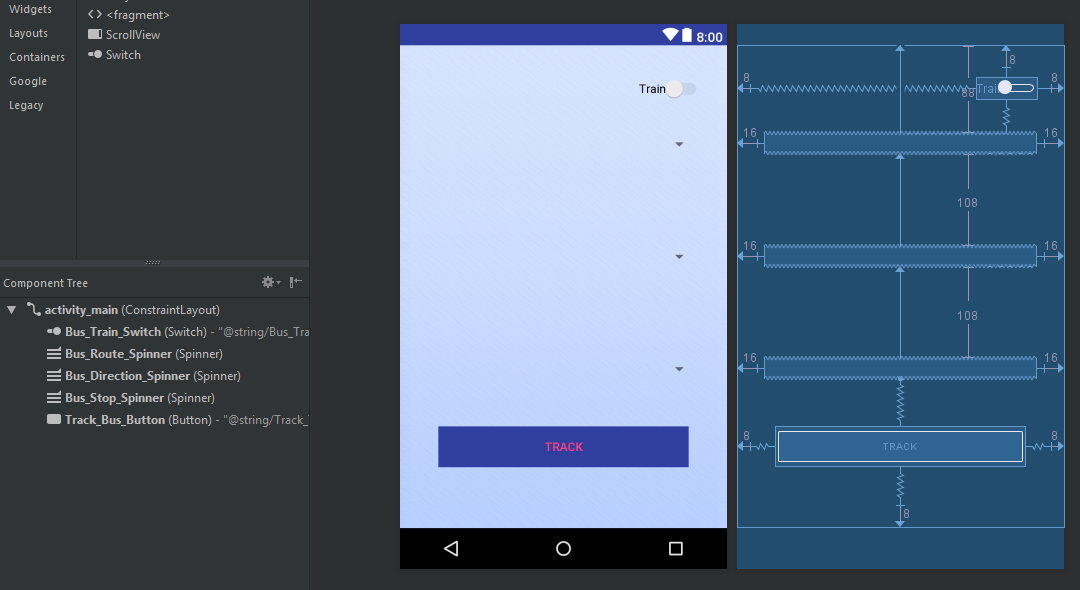
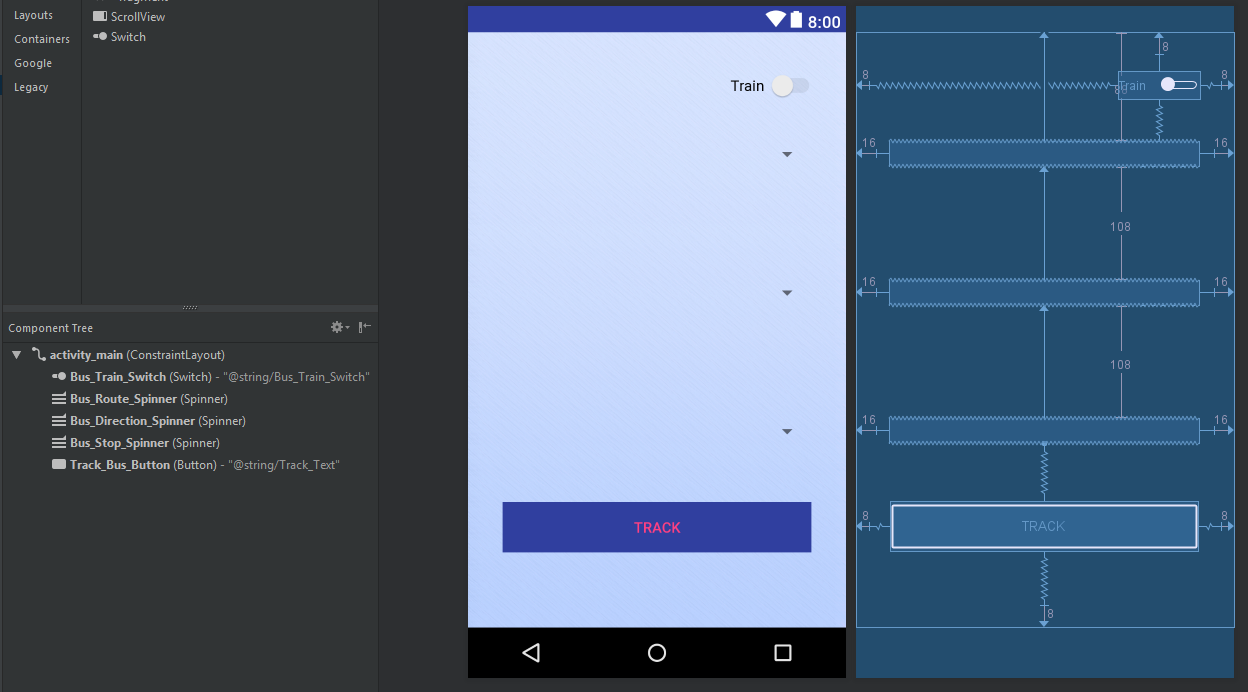
updates
added train tracking ui
fixed bus ui rotation crash
added bus error checking
bus switch goes to train
train switch goes to bus
train and bus button go to results

diff --git a/src/app/src/main/java/com/example/faraz/mytransitapp_android/MainActivity.java b/src/app/src/main/java/com/example/faraz/mytransitapp_android/MainActivity.java
@@ -21,10 +21,7 @@ import java.util.HashMap;
 import java.util.Map;
 
 public class MainActivity extends AppCompatActivity {
-    // the track button
     private Button trackButton;
-
-    // the switch to train switch
     private Switch busToTrainSwitch;
 
     // spinners
@@ -37,6 +34,7 @@ public class MainActivity extends AppCompatActivity {
     private String selectedDirection;
     private String selectedStop;
     private String ID;
+    private String routeNumber;
 
     // cta data objects
     private final CTA cta = new CTA();
@@ -46,6 +44,16 @@ public class MainActivity extends AppCompatActivity {
     protected void onCreate(Bundle savedInstanceState) {
         super.onCreate(savedInstanceState);
         setContentView(R.layout.activity_main);
+
+        // when the app is fired up from the home screen, savedInstanceState will be null
+        // When the app has already been running and the screen was rotated, the bundle exists
+        if (savedInstanceState != null) {
+            selectedRoute = savedInstanceState.getString("route");
+            selectedDirection = savedInstanceState.getString("dir");
+            selectedStop = savedInstanceState.getString("stop");
+            ID = savedInstanceState.getString("stpid");
+            routeNumber = savedInstanceState.getString("rtNum");
+        }
 
         ctaDB = new HashMap<>();
         ctaDB.put("008N", new KeyValue(createList(R.array.Eight_North_Stops), createList(R.array.Eight_North_IDs)));
@@ -73,13 +81,20 @@ public class MainActivity extends AppCompatActivity {
                     selectedStop.equals("Select Stop")) {
                     return;
                 }
-                Log.d("Transit", selectedRoute + ", " + selectedDirection + ", " + selectedStop);
+
+                String key = cta.checkBus(selectedRoute, selectedDirection);
+                if (key == null)
+                    return;
+
+                KeyValue value = ctaDB.get(key);
+                if (value == null)
+                    return;
+
+                ID = value.find(selectedStop);
             }
 
             @Override
-            public void onNothingSelected(AdapterView<?> parent) {
-
-            }
+            public void onNothingSelected(AdapterView<?> parent) {}
         });
 
         // Bus Direction Spinner
@@ -96,8 +111,11 @@ public class MainActivity extends AppCompatActivity {
                 busStopAdapter.addAll(createList(R.array.Empty_Stop));
                 busStopAdapter.notifyDataSetChanged();
 
+                selectedStop = null;
+                ID = null;
+
                 String key = cta.checkBus(selectedRoute, selectedDirection);
-                if (key.equals(""))
+                if (key == null)
                     return;
 
                 KeyValue value = ctaDB.get(key);
@@ -110,9 +128,7 @@ public class MainActivity extends AppCompatActivity {
             }
 
             @Override
-            public void onNothingSelected(AdapterView<?> parent) {
-
-            }
+            public void onNothingSelected(AdapterView<?> parent) {}
         });
 
         // Bus Route Spinner
@@ -129,6 +145,10 @@ public class MainActivity extends AppCompatActivity {
                 busStopAdapter.addAll(createList(R.array.Empty_Stop));
                 busStopAdapter.notifyDataSetChanged();
 
+                selectedDirection = null;
+                selectedStop = null;
+                ID = null;
+
                 if (selectedRoute.equals("Select Route")) {
                     return;
                 }
@@ -142,12 +162,12 @@ public class MainActivity extends AppCompatActivity {
                     busDirectionAdapter.addAll(createList(R.array.EastWest_Direction));
                     busDirectionAdapter.notifyDataSetChanged();
                 }
+
+                routeNumber = cta.getRouteNumber(selectedRoute);
             }
 
             @Override
-            public void onNothingSelected(AdapterView<?> parent) {
-
-            }
+            public void onNothingSelected(AdapterView<?> parent) {}
         });
 
         // find the track button and add a click listener to it
@@ -155,8 +175,17 @@ public class MainActivity extends AppCompatActivity {
         trackButton.setOnClickListener(new View.OnClickListener() {
             @Override
             public void onClick(View v) {
-                Toast.makeText(MainActivity.this, "You clicked the button", Toast.LENGTH_SHORT).show();
+                if (ID == null || selectedRoute.equals("Select Route") ||
+                                    selectedDirection.equals("Select Direction") ||
+                                    selectedStop.equals("Select Stop")) {
+                    Toast.makeText(MainActivity.this, "Oops! You missed something", Toast.LENGTH_SHORT).show();
+                    return;
+                }
+
+                Toast.makeText(MainActivity.this, "Tracking...", Toast.LENGTH_SHORT).show();
                 Intent myIntent = new Intent(MainActivity.this, DisplayResults.class);
+                myIntent.putExtra("stpid", ID);
+                myIntent.putExtra("rt", routeNumber);
                 finish();
                 startActivity(myIntent);
             }
@@ -174,7 +203,19 @@ public class MainActivity extends AppCompatActivity {
                 }
             }
         });
+    }
 
+    // app receives callback to this function when the Android OS detects a screen rotation
+    // function stores the state of our app when the main activity is restarted due to screen rotation
+    @Override
+    public void onSaveInstanceState(Bundle outState) {
+        super.onSaveInstanceState(outState);
+
+        outState.putString("route", selectedRoute);
+        outState.putString("dir", selectedDirection);
+        outState.putString("stop", selectedStop);
+        outState.putString("stpid", ID);
+        outState.putString("rtNum", routeNumber);
     }
 
     // given the resource ID, converts a XML string array to a Java ArrayList and returns it

diff --git a/src/app/src/main/java/com/example/faraz/mytransitapp_android/trainActivity.java b/src/app/src/main/java/com/example/faraz/mytransitapp_android/trainActivity.java
@@ -1,13 +1,122 @@
 package com.example.faraz.mytransitapp_android;
 
+import android.content.Intent;
+import android.graphics.Color;
 import android.support.v7.app.AppCompatActivity;
 import android.os.Bundle;
+import android.util.Log;
+import android.view.View;
+import android.view.ViewGroup;
+import android.widget.AdapterView;
+import android.widget.ArrayAdapter;
+import android.widget.Button;
+import android.widget.CompoundButton;
+import android.widget.Spinner;
+import android.widget.Switch;
+import android.widget.TextView;
+import android.widget.Toast;
+
+import java.util.ArrayList;
+import java.util.Arrays;
 
 public class trainActivity extends AppCompatActivity {
+    // the track button
+    private Button trackButton;
+
+    // the switch to bus switch
+    private Switch trainToBusSwitch;
+
+    private Spinner trainStopSpinner;
+
+    private String selectedStop;
 
     @Override
     protected void onCreate(Bundle savedInstanceState) {
         super.onCreate(savedInstanceState);
         setContentView(R.layout.train_activity);
+
+        // Train Stop Spinner
+        trainStopSpinner = findViewById(R.id.Train_Route_Spinner);
+        final ArrayList<String> trainStopList = createList(R.array.Blueline_Stops);
+        final ArrayAdapter<String> busStopAdapter = createAdapter(trainStopList);
+        trainStopSpinner.setAdapter(busStopAdapter);
+        trainStopSpinner.setOnItemSelectedListener(new AdapterView.OnItemSelectedListener() {
+            @Override
+            public void onItemSelected(AdapterView<?> parent, View view, int position, long id) {
+                selectedStop = parent.getItemAtPosition(position).toString();
+                if (selectedStop.equals("Select Stop"))
+                    return;
+                Log.d("Transit", selectedStop);
+            }
+
+            @Override
+            public void onNothingSelected(AdapterView<?> parent) {
+
+            }
+        });
+
+        // find the track button and add a click listener to it
+        trackButton = findViewById(R.id.Track_Train_Button);
+        trackButton.setOnClickListener(new View.OnClickListener() {
+            @Override
+            public void onClick(View v) {
+                Toast.makeText(trainActivity.this, "You clicked the button", Toast.LENGTH_SHORT).show();
+                Intent myIntent = new Intent(trainActivity.this, DisplayResults.class);
+                finish();
+                startActivity(myIntent);
+            }
+        });
+
+        // find the switch and add a checked listener to it
+        trainToBusSwitch = findViewById(R.id.Train_Bus_Switch);
+        trainToBusSwitch.setOnCheckedChangeListener(new CompoundButton.OnCheckedChangeListener() {
+            @Override
+            public void onCheckedChanged(CompoundButton buttonView, boolean isChecked) {
+                if (!isChecked) {
+                    Intent myIntent = new Intent(trainActivity.this, MainActivity.class);
+                    finish();
+                    startActivity(myIntent);
+                }
+            }
+        });
+    }
+
+    // given the resource ID, converts a XML string array to a Java ArrayList and returns it
+    private ArrayList<String> createList(int resID) {
+        return new ArrayList<>(Arrays.asList(getResources().getStringArray(resID)));
+    }
+
+    // given an ArrayList, creates an adapter and fills it with the contents from the given list
+    // disables the first item and colors it gray
+    private ArrayAdapter<String> createAdapter(ArrayList<String> list) {
+        final ArrayAdapter<String> adap = new ArrayAdapter<String>(this, R.layout.spinner_item, list) {
+            @Override
+            public boolean isEnabled(int position){
+                // Disable the first item from Spinner
+                if(position == 0)
+                    return false;
+                else
+                    return true;
+            }
+
+            @Override
+            public View getDropDownView(int position, View convertView, ViewGroup parent) {
+                View view = super.getDropDownView(position, convertView, parent);
+                TextView tv = (TextView) view;
+
+                // Set the disable item text color
+                if(position == 0)
+                    tv.setTextColor(Color.GRAY);
+                else
+                    tv.setTextColor(Color.BLACK);
+
+                return view;
+            }
+        };
+
+        // Specify the layout to use when the list of choices appears
+        adap.setDropDownViewResource(R.layout.spinner_dropdown_item);
+
+        return adap;
     }
 }

diff --git a/src/app/src/main/java/com/example/faraz/mytransitapp_android/CTA.java b/src/app/src/main/java/com/example/faraz/mytransitapp_android/CTA.java
@@ -5,9 +5,9 @@ import android.util.Log;
 public class CTA {
     public String checkBus(String selectedRoute, String selectedDirection) {
         if (selectedRoute == null || selectedRoute.equals("Select Route"))
-            return "";
+            return null;
         else if (selectedDirection == null || selectedDirection.equals("Select Direction"))
-            return "";
+            return null;
 
         switch (selectedRoute) {
             case "8 - Halsted":
@@ -36,7 +36,24 @@ public class CTA {
                 else
                     return "157W";
             default:
-                return "";
+                return null;
+        }
+    }
+
+    public String getRouteNumber(String selectedRoute) {
+        switch (selectedRoute) {
+            case "7 - Harrison":
+                return "7";
+            case "8 - Halsted":
+                return "8";
+            case "12 - Roosevelt":
+                return "12";
+            case "60 - Blue Island/26th":
+                return "60";
+            case "157 - Streeterville/Taylor":
+                return "157";
+            default:
+                return null;
         }
     }
 }

diff --git a/src/app/src/main/java/com/example/faraz/mytransitapp_android/DisplayResults.java b/src/app/src/main/java/com/example/faraz/mytransitapp_android/DisplayResults.java
@@ -1,7 +1,9 @@
 package com.example.faraz.mytransitapp_android;
 
+import android.content.Intent;
 import android.support.v7.app.AppCompatActivity;
 import android.os.Bundle;
+import android.util.Log;
 
 public class DisplayResults extends AppCompatActivity {
 
@@ -9,5 +11,23 @@ public class DisplayResults extends AppCompatActivity {
     protected void onCreate(Bundle savedInstanceState) {
         super.onCreate(savedInstanceState);
         setContentView(R.layout.results);
+
+
+    }
+
+    // onResume() will be called before the activity starts to run.
+    // The only way this activity will start running is
+    // if MainActivity.java or trainActivity.java called it
+    @Override
+    protected void onResume() {
+        super.onResume();
+
+        Log.d("Transit", "In DisplayResults.java onResume()");
+
+        Intent myIntent = getIntent();
+        String id = myIntent.getStringExtra("stpid");
+        String routeNum = myIntent.getStringExtra("rt");
+
+        Log.d("Transit", "ID: " + id + ", RouteNumber: " + routeNum);
     }
 }
